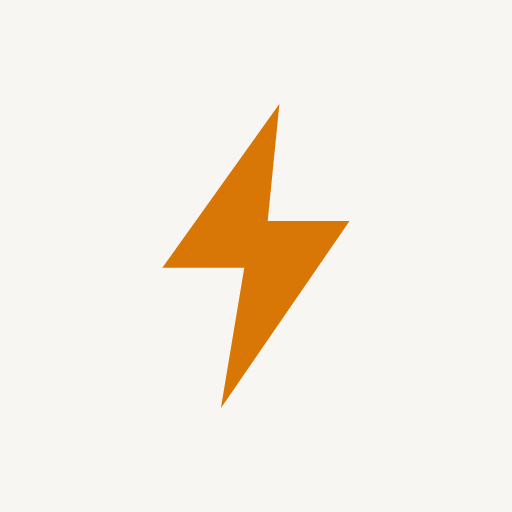
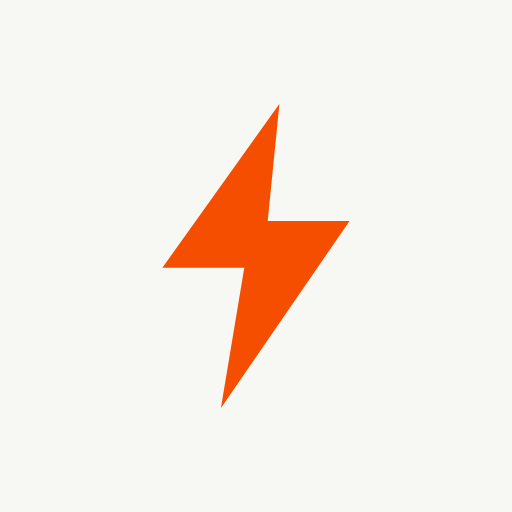
feat(console): Stage 3 — Volt's mark on the authed chrome; kill the last leaks
Acceptance bar for this stage: no opencode branding visible to a Volt user.
Three of the four leaks below were invisible to review — they typecheck, build,
and only appear in a running page or a CLI error.

- workspace.tsx (the shell on EVERY authed page) rendered opencode's mark
  (IconWorkspaceLogo). Now VoltMark, a Volt-added inline SVG: inline, not an
  <img>, because the header styles it `color: var(--color-text)` and only
  currentColor reads correctly in both schemes. Added beside icon.tsx rather
  than exported from it — that barrel is vendored with nine importers, so
  repoint consumers, never edit the shared file. Its home link also pointed at
  `/`, which redirects to /auth: clicking the logo inside a workspace bounced
  you out to the auth resolver. Now the workspace root.
- handler.ts:561 still passed `link: "https://opencode.ai/go"` into the CLI's
  trial-ended error — the very string Stage 0 rebranded, so it read "subscribe
  to Volt Gateway - https://opencode.ai/go". My Stage 0 fix was incomplete: I
  fixed the workspace URLs and missed the one that advertises a competitor at
  the moment we ask for money. Now ${consoleOrigin}/auth.
- billing-section.tsx had a LIVE `mailto:help@anoma.ly` — opencode's support
  inbox, on Volt's Billing tab. A paying Volt customer with a billing problem
  emailed a different company. Now hello@volt-ai.dev (volt-www's published
  address).
- Stage 1's port left Volt's OWN brand stale: public/volt-mark.svg was filled
[…]

Changed region(s): [[0.3125, 0.2188, 0.6875, 0.7812]]

diff --git a/packages/console/app/test/volt-no-opencode-leftovers.test.ts b/packages/console/app/test/volt-no-opencode-leftovers.test.ts
@@ -1,0 +1,76 @@
+import { expect, test } from "bun:test"
+import { readdir } from "node:fs/promises"
+import { join } from "node:path"
+import { i18n } from "~/i18n"
+
+// VOLT: the standing "no opencode leftovers" bar, encoded.
+//
+// The console is vendored opencode source, so opencode's product names, links and support addresses are the DEFAULT
+// everywhere and leak back in every time upstream adds a string. Review does not catch them: they typecheck, they
+// build, and they only show up in a running page or in a CLI error nobody reads during a PR. This has already bitten
+// four times — the CLI's trial-ended error advertised "OpenCode Go", the gateway's billing errors linked
+// opencode.ai's console, the Billing tab's "contact us" mailto went to opencode's inbox (help@anoma.ly), and every
+// authed page's meta description read "OpenCode - The open source coding agent."
+//
+// Scope note: this bans opencode's BRANDING, not the word. opencode is a genuine runtime prerequisite that Volt's
+// users install and run (`opencode auth login`), so naming it in setup instructions is factual and stays — see the
+// FACTUAL allowlist. What must never appear is opencode's PRODUCTS (Go/Black/Zen), DOMAINS, or CONTACTS presented
+// to a Volt user as if they were Volt's.
+
+const SRC = join(import.meta.dir, "..", "src")
+
+/** opencode's brand surface: its domains, its company, its contacts, its product names. */
+const BRANDING = /opencode\.ai|anomalyco|anoma\.ly|opencode\s+(go|black|zen)|"opencode"/i
+
+/**
+ * i18n keys that legitimately mention opencode, each with the reason it is not a leftover.
+ * Anything not listed here must resolve clean — add to this list ONLY with a reason that survives review.
+ */
+const ALLOWED: Record<string, string> = {
+  // NB: Volt's own setup copy ("Select \"Volt AI\" as the provider in your opencode config", `opencode auth login`)
+  // needs no entry here — BRANDING matches opencode's PRODUCTS/DOMAINS/CONTACTS, not the bare word. Naming the
+  // prerequisite a user installs is factual. That distinction is the point of this list being short.
+  //
+  // Unreachable: every one of these is gated behind `isBlack()`, and Volt does not sell the Black tier — Stage 2
+  // deleted the entire /black subscribe flow, so no Volt workspace can ever hold a Black subscription. Left as
+  // opencode's own strings rather than rebranded, because rebranding a dead path is divergence for nothing.
+  "workspace.black.subscription.message": "unreachable: isBlack() is always false for Volt (no /black routes)",
+  "workspace.black.waitlist.joined": "unreachable: Black waitlist has no entry point in Volt",
+  "workspace.black.waitlist.ready": "unreachable: Black waitlist has no entry point in Volt",
+  "workspace.lite.black.message": "unreachable: only rendered when isBlack()",
+}
+
+async function keysRenderedByTheApp(): Promise<string[]> {
+  const keys = new Set<string>()
+  for (const entry of await readdir(SRC, { withFileTypes: true, recursive: true })) {
+    if (!entry.isFile() || !/\.(ts|tsx)$/.test(entry.name) || entry.name.endsWith(".test.ts")) continue
+    const text = await Bun.file(join(entry.parentPath, entry.name)).text()
+    for (const [, key] of text.matchAll(/(?:i18n\.)?\bt\(\s*"([a-zA-Z0-9_.]+)"/g)) keys.add(key!)
+  }
+  return [...keys]
+}
+
+test("no string the app renders carries opencode's branding", async () => {
+  const keys = await keysRenderedByTheApp()
+  expect(keys.length).toBeGreaterThan(100) // guard the guard: a broken scan must not pass vacuously
+
+  const dict = i18n("en")
+  const leftovers = keys
+    .filter((k) => !(k in ALLOWED))
+    .map((k) => [k, dict[k as keyof typeof dict]] as const)
+    .filter(([, v]) => typeof v === "string" && BRANDING.test(v))
+    .map(([k, v]) => `${k} = ${v}`)
+
+  expect(leftovers).toEqual([])
+})
+
+test("the allowlist stays honest", async () => {
+  const keys = new Set(await keysRenderedByTheApp())
+  const dict = i18n("en")
+  for (const key of Object.keys(ALLOWED)) {
+    // An entry that no longer renders, or no longer mentions opencode, is stale — drop it rather than let it hide
+    // a future leftover on the same key.
+    expect({ key, rendered: keys.has(key) }).toEqual({ key, rendered: true })
+    expect({ key, mentions: BRANDING.test(dict[key as keyof typeof dict] as string) }).toEqual({ key, mentions: true })
+  }
+})

diff --git a/volt-scripts/check-console-divergence.ts b/volt-scripts/check-console-divergence.ts
@@ -29,6 +29,7 @@ const ALLOW = new Set([
 
   // ── Volt branding: an ADDITIVE override — opencode's style/token/*.css stay byte-identical ──
   "app/src/style/volt-theme.css", // the ONLY branding source file: Volt token values + self-hosted fonts
+  "app/test/volt-no-opencode-leftovers.test.ts", // Volt-added: fails if any string the app renders carries opencode BRANDING (its products/domains/contacts) — the bar review keeps missing
   "app/test/volt-theme.contrast.test.ts", // Volt-added: pins the brand palette's WCAG contrast (CSS is type-checked by nothing; a value tweak can silently break readability)
   "app/test/volt-gateway-observability.test.ts", // Volt-added: asserts every POST route under routes/v1 is in the tail worker's allowlist (the beside-file hazard — see the file)
   "app/src/i18n/volt.test.ts", // Volt-added: pins the overlay merge point (see the file) — red if it regresses to a context-only merge
@@ -41,6 +42,8 @@ const ALLOW = new Set([
   "app/src/routes/auth/logout.ts", // logout → /auth (opencode sent logged-out users to its /zen marketing page)
   "app/src/routes/workspace/[id].tsx", // Volt-owned workspace shell (nav/layout); the views stay vendored as children
   "app/src/routes/workspace/[id]/index.tsx", // workspace root → the Gateway tab (Volt's default view)
+  "app/src/component/volt-mark.tsx", // Volt-added: Volt's mark, inline for currentColor — replaces opencode's IconWorkspaceLogo in the authed header + 404 (repoint consumers, never edit the vendored icon barrel)
+  "app/src/routes/workspace.tsx", // Volt-owned chrome: opencode's mark on EVERY authed page → VoltMark; logo link `/` (which redirects to /auth, bouncing you out of your own workspace) → the workspace root
   "app/src/routes/[...404].tsx", // Volt-owned: opencode's 404 was a marketing page (its wordmark, an anomalyco/opencode link, and /docs + /discord — both DELETED, so the 404 page 404'd)
   "app/src/routes/[...404].css", // Volt-owned: dropped its local hsl palette, which pinned the one page a lost user sees to opencode's colours and made volt-theme.css a no-op there
   "app/src/routes/workspace/[id]/gateway", // Volt-added: the Gateway tab (Volt's copy + quick-connect); IMPORTS the vendored /go sections, so /go itself stays pristine + unlinked
@@ -54,6 +57,7 @@ const ALLOW = new Set([
   "app/src/routes/zen/util/modelsHandler.ts", // /v1/models owned_by: "opencode" → "volt"
   "app/src/routes/zen/util/handler.ts", // gateway errors linked hardcoded opencode.ai/workspace/… → request-derived origin + Volt's /gateway tab; ADMIN_WORKSPACES (opencode's own ids, isFree+allowlist bypass) emptied
   "app/src/routes/honeycomb/webhook.ts", // blanked opencode's hardcoded Discord alert role ID (wrong server); mention now opt-in
+  "app/src/routes/workspace/[id]/billing/billing-section.tsx", // "contact us" mailto:help@anoma.ly (opencode's support inbox, live on Volt's Billing tab) → hello@volt-ai.dev
   "core/src/aws.ts", // email sender: "OpenCode Zen <contact@anoma.ly>" → "Volt <noreply@volt-ai.dev>"
   "core/src/user.ts", // invite email subject + assetsUrl rebranded to Volt / volt-ai.dev
   "mail/emails/templates/InviteEmail.tsx", // invite email body: opencode.ai URLs + "OpenCode" copy → Volt

diff --git a/packages/console/app/src/routes/workspace.tsx b/packages/console/app/src/routes/workspace.tsx
@@ -1,12 +1,11 @@
 import { query, createAsync, RouteSectionProps, useParams, A } from "@solidjs/router"
 import "./workspace.css"
-import { IconWorkspaceLogo } from "../component/icon"
+import { VoltMark } from "../component/volt-mark"
 import { WorkspacePicker } from "./workspace-picker"
 import { UserMenu } from "./user-menu"
 import { withActor } from "~/context/auth.withActor"
 import { User } from "@opencode-ai/console-core/user.js"
 import { Actor } from "@opencode-ai/console-core/actor.js"
-import { useLanguage } from "~/context/language"
 
 const getUserEmail = query(async (workspaceID: string) => {
   "use server"
@@ -17,16 +16,19 @@ const getUserEmail = query(async (workspaceID: string) => {
   }, workspaceID)
 }, "userEmail")
 
+// VOLT: the authed shell — rendered on EVERY page behind the login, which is why its two edits matter more than
+// their size. It showed opencode's mark (IconWorkspaceLogo), and its home link pointed at `/`, which now redirects
+// to /auth: clicking the logo from inside a workspace bounced you out to the auth resolver and back. It goes to the
+// workspace root instead, which lands on the Gateway tab. Everything else here is opencode's.
 export default function WorkspaceLayout(props: RouteSectionProps) {
   const params = useParams()
-  const language = useLanguage()
   const userEmail = createAsync(() => getUserEmail(params.id!))
   return (
     <main data-page="workspace">
       <header data-component="workspace-header">
         <div data-slot="header-brand">
-          <A href={language.route("/")} data-component="site-title">
-            <IconWorkspaceLogo />
+          <A href={`/workspace/${params.id}`} data-component="site-title">
+            <VoltMark />
           </A>
           <WorkspacePicker />
         </div>

diff --git a/packages/console/app/src/component/volt-mark.tsx b/packages/console/app/src/component/volt-mark.tsx
@@ -1,0 +1,21 @@
+import type { JSX } from "solid-js"
+
+// VOLT: Volt's mark, inline so it inherits `currentColor`.
+//
+// Volt-added rather than a new export in component/icon.tsx: that barrel is vendored opencode source with nine
+// importers, and the audit's rule is to repoint consumers instead of editing shared vendored files. It replaces
+// opencode's IconWorkspaceLogo (the square-with-a-hole mark) in the authed header and on the 404 page.
+//
+// Inline, not <img src="/volt-mark.svg">, for the same reason opencode's was inline: currentColor. The header
+// styles it with `color: var(--color-text)` and the 404 inherits the page colour, so one component reads correctly
+// in light and dark. An <img> would pin it to the file's own fill and go invisible in one of the two.
+//
+// The public/volt-mark.svg file still exists and is still the favicon (ui.tsx) — same geometry, but it is a
+// standalone asset, so it carries the accent colour literally.
+export function VoltMark(props: JSX.SvgSVGAttributes<SVGSVGElement>) {
+  return (
+    <svg width="24" height="28" viewBox="0 0 24 28" fill="none" xmlns="http://www.w3.org/2000/svg" {...props}>
+      <path d="M14 1 L4 15 L11 15 L9 27 L20 11 L13 11 L14 1 Z" fill="currentColor" />
+    </svg>
+  )
+}

diff --git a/packages/console/app/src/routes/[...404].tsx b/packages/console/app/src/routes/[...404].tsx
@@ -1,6 +1,7 @@
 import "./[...404].css"
 import { Title } from "@solidjs/meta"
 import { HttpStatusCode } from "@solidjs/start"
+import { VoltMark } from "~/component/volt-mark"
 
 // VOLT: the app's only catch-all, and Volt-owned rather than patched.
 //
@@ -20,8 +21,8 @@ export default function NotFound() {
       <HttpStatusCode code={404} />
       <div data-component="content">
         <section data-component="top">
-          {/* Served from public/ — the same mark ui.tsx uses as the favicon. No light/dark pair: Volt ships one. */}
-          <img data-slot="logo" src="/volt-mark.svg" alt="Volt" width="56" height="56" />
+          {/* Inline so it inherits the page colour — one mark reads in light and dark, no light/dark pair. */}
+          <VoltMark data-slot="logo" width="48" height="56" aria-label="Volt" />
           <h1 data-slot="title">Page not found</h1>
         </section>
 

diff --git a/packages/console/app/src/routes/zen/util/handler.ts b/packages/console/app/src/routes/zen/util/handler.ts
@@ -557,8 +557,12 @@ export async function handler(
     if (modelData.trialEnded)
       throw new ModelError(
         `${t("zen.api.error.trialEnded", {
-          model: modelData.name,
-          link: "https://opencode.ai/go",
+          // VOLT: was https://opencode.ai/go — opencode's marketing page for its Go plan. This is interpolated into
+          // the message a subscriber reads IN THEIR CLI ("…continue using the model by subscribing to Volt Gateway
+          // - {{link}}"), so it advertised a competitor at the exact moment we ask for money. No workspaceID in
+          // scope here (validateModel doesn't take authInfo), and /auth needs none: it resolves to the user's
+          // workspace, whose root is the Gateway tab.
+          link: `${consoleOrigin}/auth`,
         })}`,
       )
 

diff --git a/packages/console/app/src/routes/workspace/[id]/billing/billing-section.tsx b/packages/console/app/src/routes/workspace/[id]/billing/billing-section.tsx
@@ -143,7 +143,10 @@ export function BillingSection() {
         <h2>{i18n.t("workspace.billing.title")}</h2>
         <p>
           {i18n.t("workspace.billing.subtitle.beforeLink")}{" "}
-          <a href="mailto:help@anoma.ly">{i18n.t("workspace.billing.contactUs")}</a>{" "}
+          {/* VOLT: was mailto:help@anoma.ly — opencode's support inbox, live on Volt's Billing tab, so a paying
+              Volt customer with a billing problem emailed a different company. hello@volt-ai.dev is the address
+              volt-www's contact page publishes. */}
+          <a href="mailto:hello@volt-ai.dev">{i18n.t("workspace.billing.contactUs")}</a>{" "}
           {i18n.t("workspace.billing.subtitle.afterLink")}
         </p>
       </div>

diff --git a/packages/console/app/scripts/gen-favicon.ts b/packages/console/app/scripts/gen-favicon.ts
@@ -9,8 +9,8 @@ const POLY: [number, number][] = [
   [14, 1], [4, 15], [11, 15], [9, 27], [20, 11], [13, 11], [14, 1],
 ]
 const VB = { w: 24, h: 28 }
-const BG = [0xf7, 0xf6, 0xf3] // --color-bg
-const FG = [0xd9, 0x77, 0x06] // --color-accent
+const BG = [0xf7, 0xf7, 0xf4] // --color-bg (volt-www --color-background)
+const FG = [0xf5, 0x4e, 0x00] // --color-accent (volt-www --color-accent)
 
 function render(size: number): Buffer {
   // Fit the mark into the center with 18% padding (iOS/PWA safe zone).
